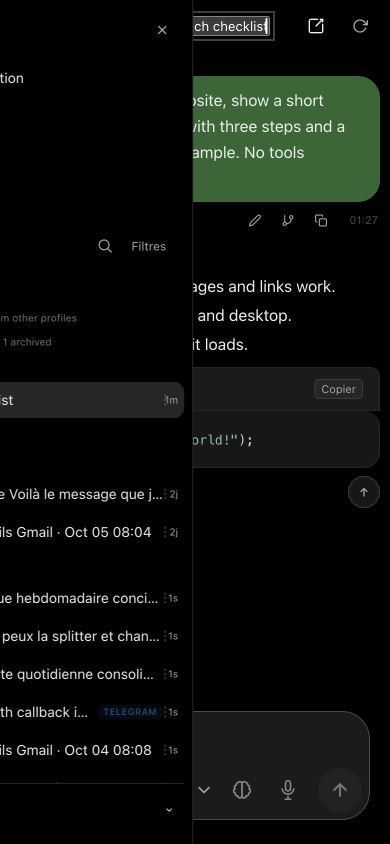
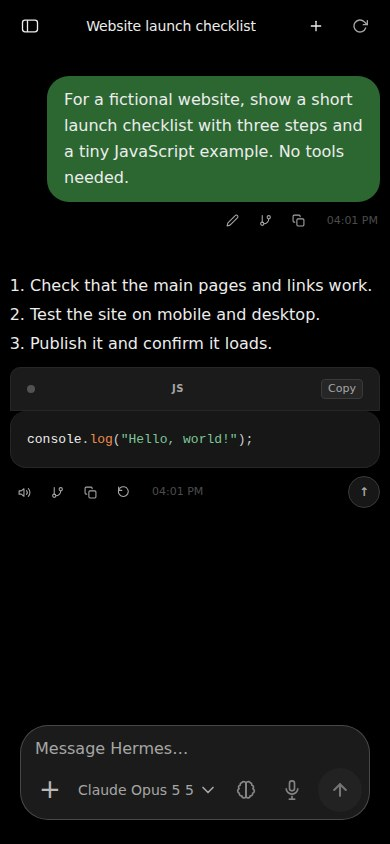
Sync gallery fixes and correct toast notification layering

diff --git a/assets/theme.css b/assets/theme.css
@@ -350,7 +350,7 @@
 }
 :root[data-skin="selene"] :is(.model-dropdown, .profile-dropdown,
   .ws-dropdown, .composer-reasoning-dropdown, .composer-toolsets-dropdown,
-  .saved-prompts-popup, .composer-mobile-config-panel, .session-context-menu, .cmd-dropdown,
+  .saved-prompts-popup, .composer-mobile-config-panel, .session-action-menu, .cmd-dropdown,
   .skill-picker-dropdown, .settings-search-results) {
   border-radius: 20px;
   padding: 8px;
@@ -360,7 +360,7 @@
 }
 :root.dark[data-skin="selene"] :is(.model-dropdown, .profile-dropdown,
   .ws-dropdown, .composer-reasoning-dropdown, .composer-toolsets-dropdown,
-  .saved-prompts-popup, .composer-mobile-config-panel, .session-context-menu, .cmd-dropdown,
+  .saved-prompts-popup, .composer-mobile-config-panel, .session-action-menu, .cmd-dropdown,
   .skill-picker-dropdown, .settings-search-results) {
   background: #303030;
 }
@@ -386,6 +386,8 @@
 :root[data-skin="selene"] :is(.model-search-input, .model-custom-input,
   .model-provider-hint, .toolsets-dropdown-state) { border-radius: 10px; }
 :root[data-skin="selene"] :is(.skill-opt, .settings-search-result) { border-radius: 10px; }
+:root[data-skin="selene"] .session-action-menu .session-action-opt { border-radius: 10px; overflow: hidden; }
+:root[data-skin="selene"] .session-action-menu .ws-opt-name { font-size: 14px; font-weight: 400; }
 :root[data-skin="selene"] .has-tooltip::after {
   font-size: 14px;
   font-weight: 400;
@@ -824,8 +826,8 @@
   :root[data-skin="selene"] :is(.theme-header-brand,.theme-header-search) { display: none; }
   :root[data-skin="selene"] #btnHamburger { left: 8px; }
 }
-:root[data-skin="selene"] .sidebar-search { display: none; }
-:root[data-skin="selene"][data-theme-search="open"] .sidebar-search { display: block; }
+:root[data-skin="selene"] #panelChat .sidebar-search { display: none; }
+:root[data-skin="selene"][data-theme-search="open"] #panelChat .sidebar-search { display: block; }
 :root[data-skin="selene"] .theme-session-heading { display: flex; align-items: center; justify-content: space-between; padding: 12px 18px 8px; font-size: 12px; color: var(--muted); }
 :root[data-skin="selene"] .theme-session-heading button { border: 0; border-radius: 8px; background: transparent; color: inherit; font: inherit; padding: 6px 8px; cursor: pointer; }
 :root[data-skin="selene"] .theme-session-heading button:hover { color: var(--text); background: var(--hover-bg); }
@@ -884,11 +886,11 @@
 :root[data-skin="selene"] .composer-left > #btnMic { order: 3; }
 :root[data-skin="selene"] .composer-left > #btnVoiceMode { order: 4; }
 :root[data-skin="selene"] .composer-footer #composerReasoningChip {
-  display: flex; align-items: center; gap: 4px; width: auto; min-width: 0; max-width: 88px;
+  display: flex; align-items: center; gap: 4px; width: auto; min-width: 0; max-width: 136px;
   height: 36px; min-height: 36px; padding: 0 8px; border: 0; color: var(--muted);
   font: inherit; font-size: 13px; font-weight: 400;
 }
-:root[data-skin="selene"] .composer-footer .composer-reasoning-label { display: inline-flex !important; overflow: hidden; text-overflow: ellipsis; font: inherit; }
+:root[data-skin="selene"] .composer-footer .composer-reasoning-label { display: block !important; min-width: 0; white-space: nowrap; overflow: hidden; text-overflow: ellipsis; text-align: left; font: inherit; }
 :root[data-skin="selene"] .composer-footer .composer-reasoning-icon { display: inline-flex; }
 :root[data-skin="selene"] .composer-footer .composer-reasoning-chevron { display: inline-flex; }
 :root[data-skin="selene"] .composer-footer.cf-burger .composer-left > #composerReasoningWrap:not(.composer-control-hidden):not([style*="display: none"]) { display: flex !important; }
@@ -1079,3 +1081,26 @@
     :root[data-skin="selene"] .composer-model-wrap:not(.composer-control-hidden) { margin-left: auto; }
   }
 }
+
+/* A narrow desktop composer keeps the model picker usable: reasoning collapses to its icon. */
+@media (min-width: 641px) {
+  @container (max-width: 350px) {
+    :root[data-skin="selene"] .composer-left > #composerReasoningWrap {
+      flex: 0 0 36px;
+      width: 36px;
+    }
+    :root[data-skin="selene"] .composer-footer #composerReasoningChip {
+      width: 36px;
+      min-width: 36px;
+      max-width: 36px;
+      padding: 0;
+      justify-content: center;
+    }
+    :root[data-skin="selene"] .composer-footer :is(.composer-reasoning-label, .composer-reasoning-chevron) {
+      display: none !important;
+    }
+  }
+}
+
+/* Native notifications must sit above the header, drawer and profile menu. */
+:root[data-skin="selene"] .toast { z-index: 600; }

diff --git a/assets/layout.js b/assets/layout.js
@@ -171,6 +171,7 @@
 
     }
     const list = document.getElementById("sessionList");
+    const listScrollTop = list?.scrollTop || 0;
     if (list) {
       const heading = document.createElement("div");
       heading.className = "theme-session-heading";
@@ -232,7 +233,10 @@
     for (const selector of extras) {
       const node = left.querySelector(selector);
       move(node, menu);
-      if (node?.tagName === "BUTTON") label(node, node.id === "providerQuotaChip" ? text("Provider quota", "Quota du fournisseur") : node.dataset.tooltip || node.getAttribute("aria-label") || node.title || "Options");
+      if (node?.tagName === "BUTTON") {
+        const quota = node.id === "providerQuotaChip";
+        label(node, quota ? text("Provider quota", "Quota du fournisseur") : node.dataset.tooltip || node.getAttribute("aria-label") || node.title || "Options", !quota);
+      }
     }
     // Core owns and updates this context row, including compression actions.
     // Moving the existing row gives mobile users access through the + menu.
@@ -339,9 +343,24 @@
         if (node) move(node, scroll);
       }
     }
+    // Reparenting can reset the native scroller without a final scroll event.
+    // Let Core recompute its real virtual window after layout/viewport changes;
+    // do not reproduce its row-height calculation in this theme.
+    let listFrame;
+    if (list) {
+      const notifyList = () => list.dispatchEvent(new Event("scroll"));
+      const listResize = new ResizeObserver(notifyList);
+      listResize.observe(list);
+      listFrame = requestAnimationFrame(() => {
+        list.scrollTop = listScrollTop;
+        notifyList();
+      });
+      undo.push(() => { listResize.disconnect(); cancelAnimationFrame(listFrame); });
+    }
     cleanup = () => {
       // Restore moved nodes before removing their temporary containers.
       for (const fn of undo.slice().reverse()) fn();
+      list?.dispatchEvent(new Event("scroll"));
       cleanup = undefined;
     };
     return true;

diff --git a/docs/VALIDATION.md b/docs/VALIDATION.md
@@ -62,3 +62,7 @@ At 320/390 px, the header's New conversation receives the center-point hit with 
 [Second-review screenshots](https://github.com/Charles-HL/hermes-webui-selene/tree/main/review-evidence) are linked from the PR, excluded from the release ZIP and absent from the gallery package. Main installed conversation previews remain in the package.
 
 Installed follow-up on 1.1.3: `sessionList` computed to overflow auto with a bounded 393 px height, and the profile parent remained the sidebar. Core's absent quota data stayed hidden inside the add menu, with the translated fixed caption available when needed. Pointer opening left focus on + and no console errors were observed. Runtime hashes matched between the canonical source and the installation; the WebUI remained healthy. Package validation/safety (22 entries) and the 15 behavior suites passed on this revision.
+
+## Toast layering (1.1.5)
+
+Synced the merged gallery 1.1.4 runtime and demo-only mobile preview before this fix. A native-template fixture checked a toast overlapping the header at desktop1200/mobile390: the toast layer is600, above header300 and drawer400; hit-testing the overlapping area resolves to the toast, and its Dismiss button works. Native timing and notification logic are unchanged.

diff --git a/CHANGELOG.md b/CHANGELOG.md
@@ -1,5 +1,20 @@
 # Changelog
 
+## 1.1.5 — 2026-10-07
+
+- Keep native toast notifications above the theme header, mobile drawer and profile menu.
+
+## 1.1.4 — 2026-10-07
+
+- Keep the native Kanban, Skills and Settings search fields visible; only the chat list's search sits behind the toggle.
+- Apply the rounded menu shell to Core's conversation action menu (`.session-action-menu`).
+- Size the desktop reasoning chip for its icon and label, with ellipsis instead of clipping.
+- Collapse the reasoning chip to its icon when a narrow desktop composer would squeeze the model picker.
+- Round and reweight the conversation action menu's rows to match Selene's other menus.
+- Keep the fixed Provider quota caption when Core updates the chip's tooltip.
+- Replace the mobile dark screenshot with a demo-only capture.
+- Run the virtual-list regression behind the shared HTTP/WebSocket network guards with service workers blocked.
+
 ## 1.1.3 — 2026-10-07
 
 - Restore native conversation-list scrolling for virtualized histories while keeping the profile pinned.
